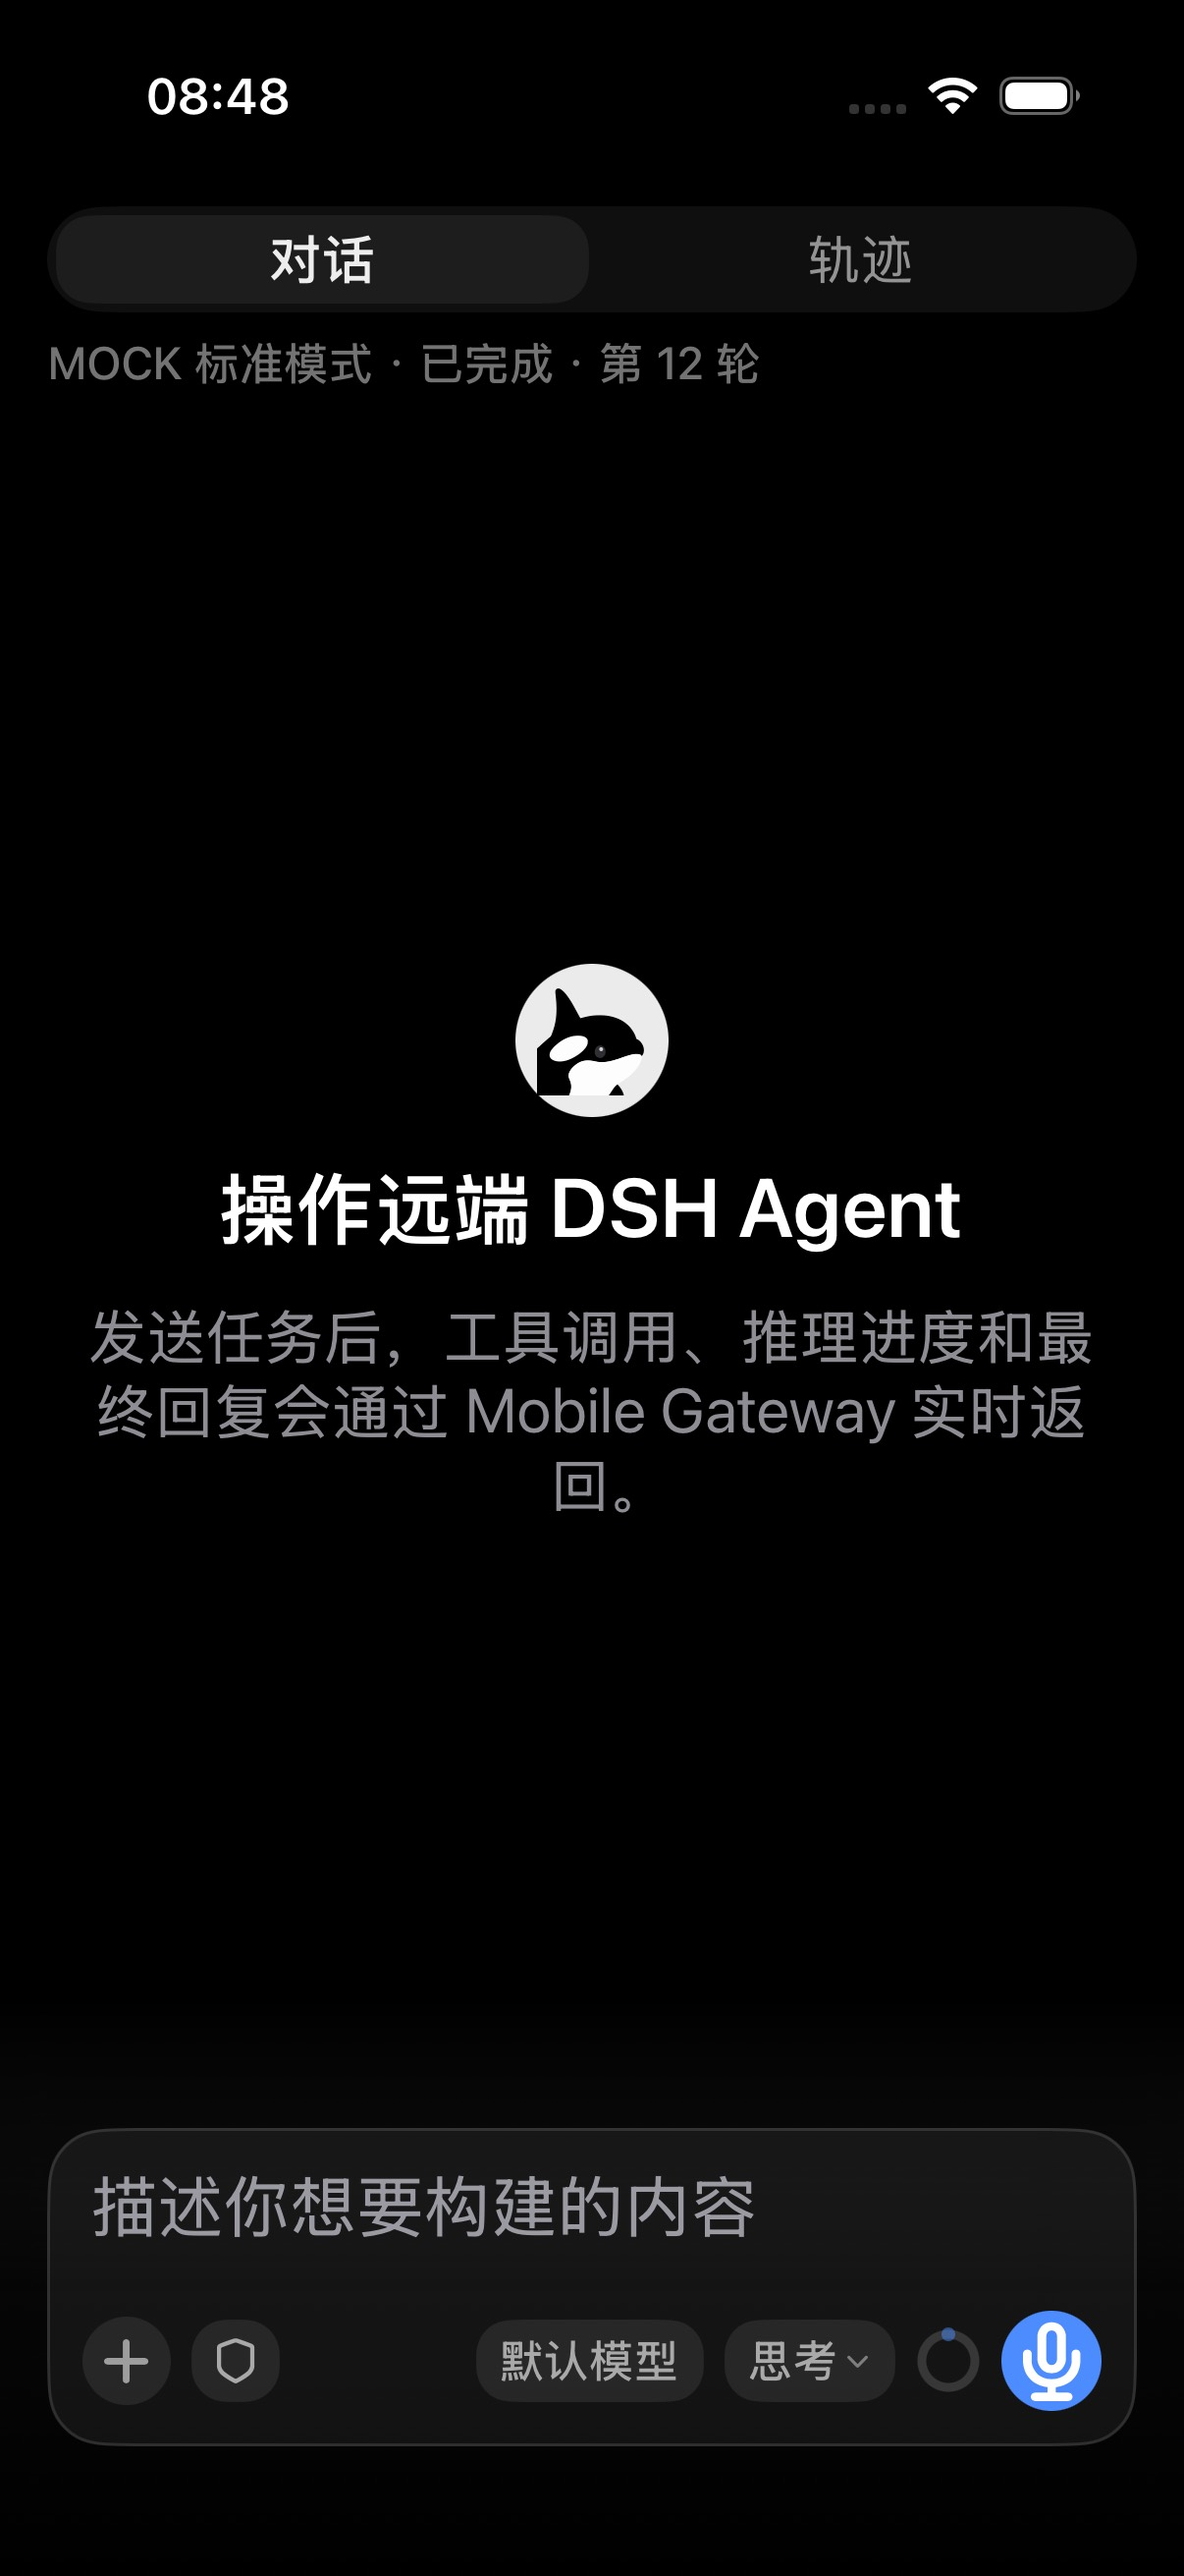
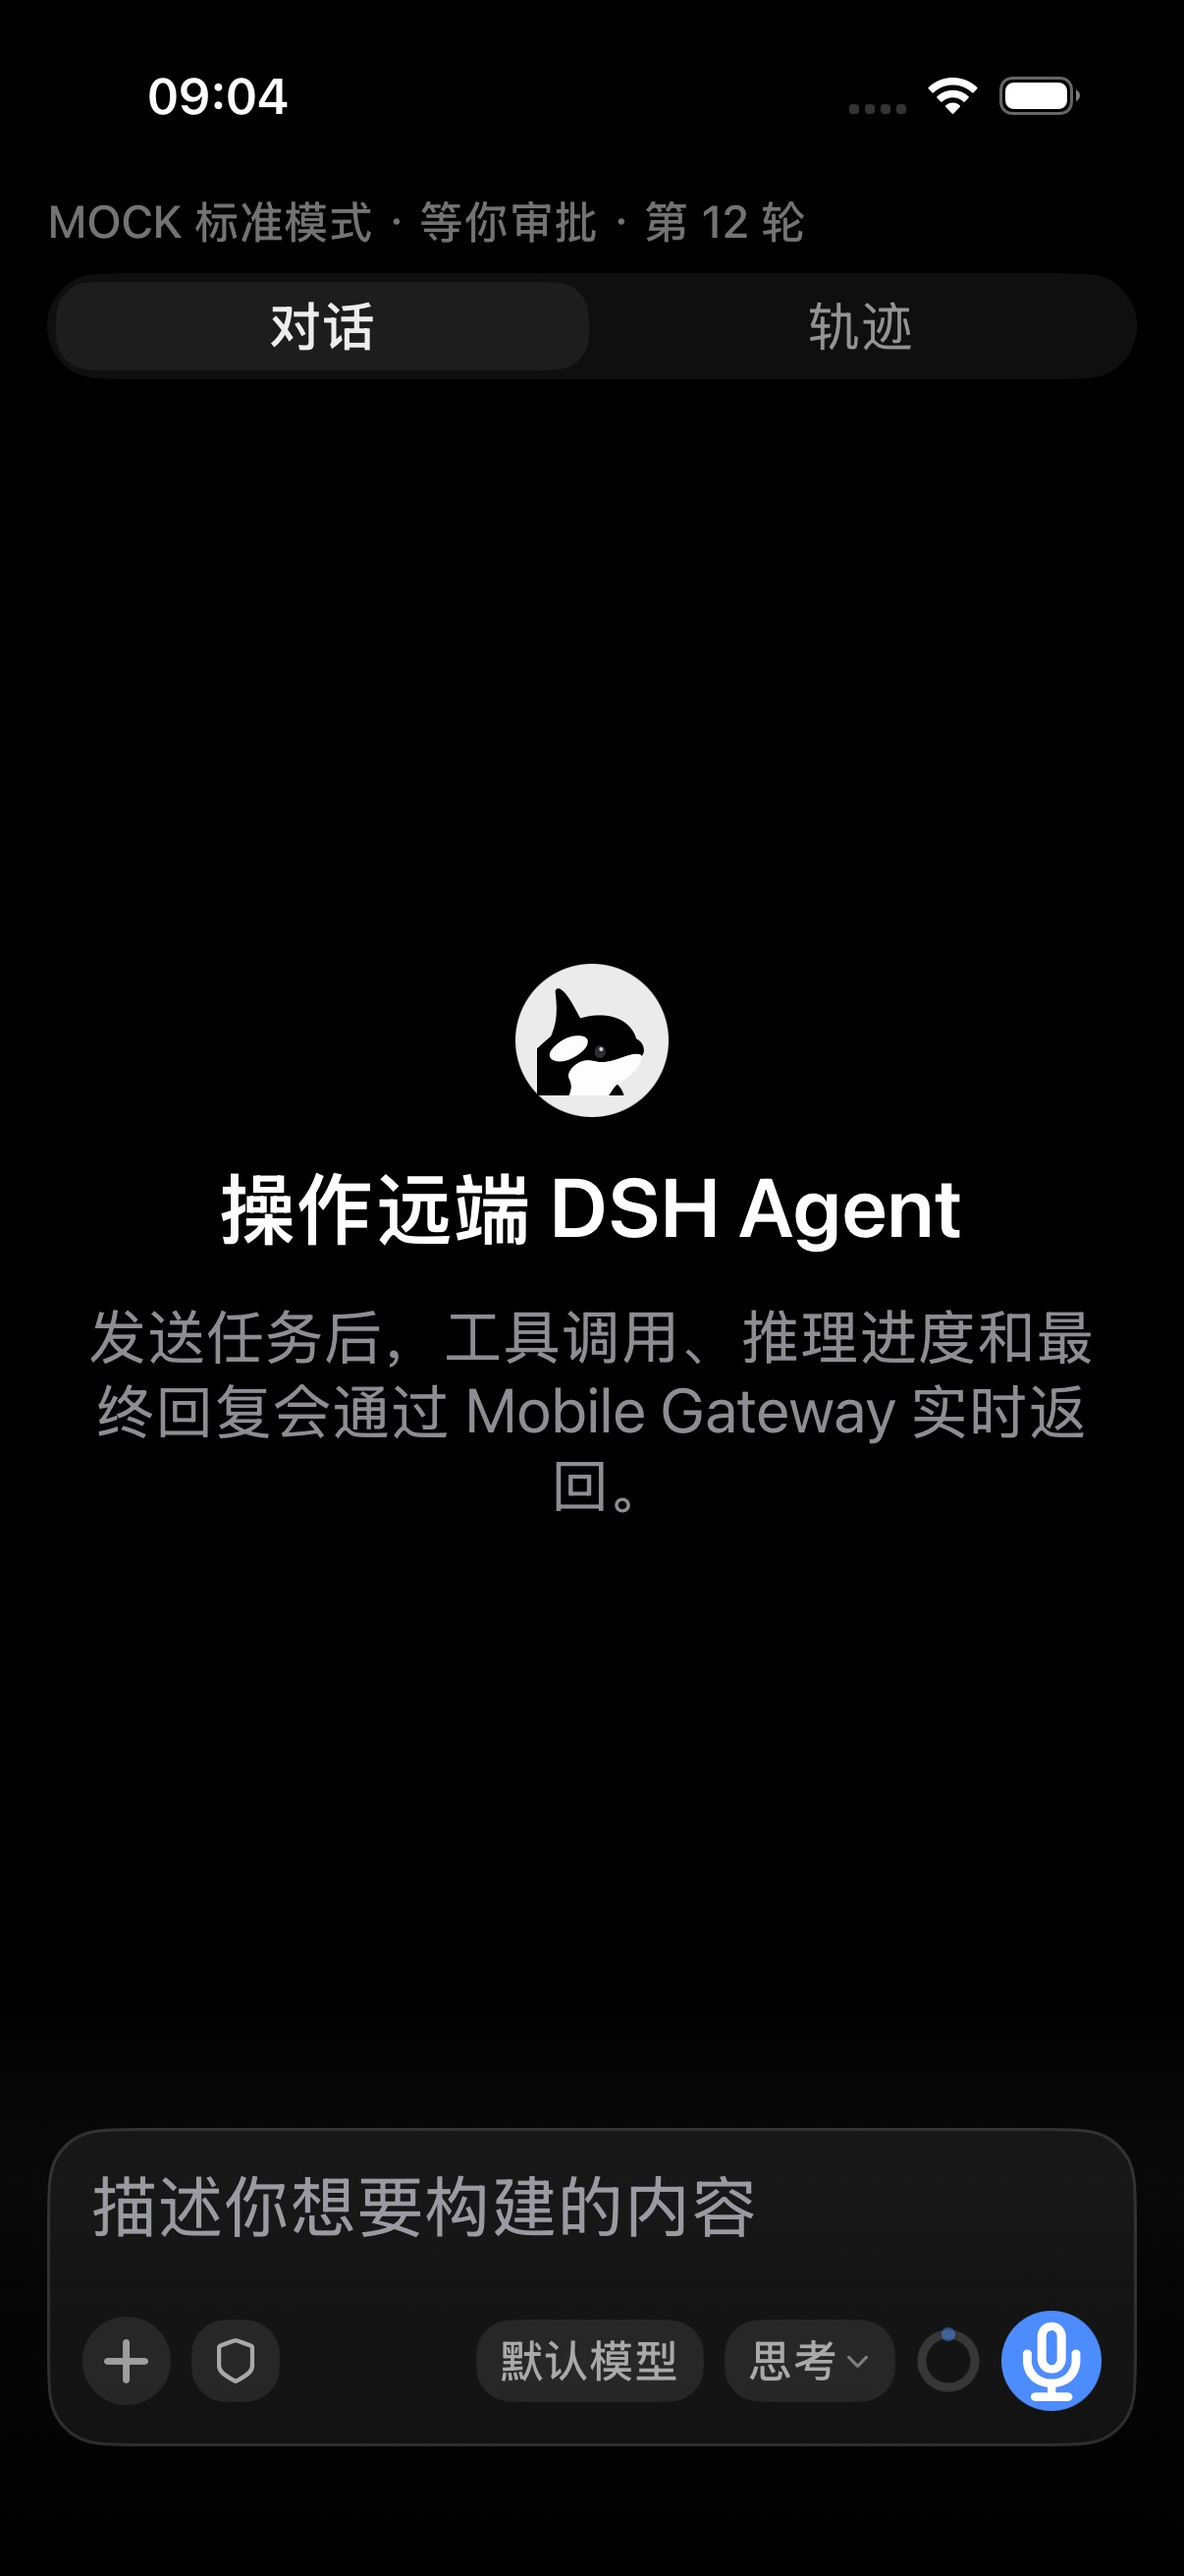
fix(ui): 段3 页头收口 —— 副行移到分段上方 + 状态词扩三态（等你审批/等你回答/运行中/已完成）
本笔解决什么（Chief 退回项）：
1) 位置：副行从「分段下方」移到**导航标题下方、分段上方**，与设计稿一致
   （顺序：副行 → DSHSegmented）
2) 状态词扩三态，按场景取，优先级从高到低：
   - `store.selectedPendingApprovalRequest != nil` → 「等你审批」
   - `store.selectedPendingQuestionRequestMerged != nil` → 「等你回答」
   - `store.selectedSession.isRunning` → 「运行中 / 已完成」
   模式与轮次仍取既有 `sessionAgentPreset` / `stats.turns`；无任何一段时整行不渲染

未动：`PersistentSessionPager` 手势逻辑、`activeView` 语义、`DSHSegmented` 组件本身、
`RootView.ConversationNavigationShell`（本轮 `git diff` 仍为 0，导航容器不碰）。

自验证据：
- 闸门 EXIT=0（四路 0 错误 / 1.7.11 (52) / Bundle ID 前缀一致 / 团队流 3 入口 /
  收录 80/80 / 测试目标 14 文件 0 错误）
- 截图重出：03-header-dark.jpg / 03-header-light.jpg —— 副行在分段**上方**，
  文本为临时 mock「MOCK 标准模式 · 等你审批 · 第 12 轮」（验证三态里的审批态）
- 临时 mock 已删，grep 0 残留；RootView 已还原（diff 0）

坐标：分支 feat/ui-redesign-home；tag ui-baseline-conversation(705a223) 未动

diff --git a/DeepSeekHarnessMobile/Views/ConversationView.swift b/DeepSeekHarnessMobile/Views/ConversationView.swift
@@ -418,12 +418,7 @@ struct ConversationView: View {
                     Text("团队 › \(store.selectedSession?.title ?? "成员")" + (store.selectedMemberCanSend ? "" : " · 只读"))
                         .appFont(.caption).foregroundStyle(.secondary).lineLimit(1).padding(.bottom, 4)
                 }
-                // 03 页头：设计系统胶囊分段（原为系统 Picker(.segmented)）
-                DSHSegmented(items: ["对话", "轨迹"], selection: $activeView)
-                    .padding(.horizontal, DSHSpacing.lg)
-                    .readableContentWidth(440)
-                    .padding(.vertical, DSHSpacing.sm)
-                // 03 页头副行：模式 · 状态 · 第 N 轮（11pt，不上标题行）
+                // 03 页头副行：紧贴导航标题下方、分段上方（模式 · 状态 · 第 N 轮）
                 if let conversationSubtitle {
                     Text(conversationSubtitle)
                         .appFont(DSHType.meta)
@@ -432,8 +427,13 @@ struct ConversationView: View {
                         .frame(maxWidth: .infinity, alignment: .leading)
                         .padding(.horizontal, DSHSpacing.lg)
                         .readableContentWidth(440)
-                        .padding(.bottom, DSHSpacing.xs)
+                        .padding(.top, DSHSpacing.xs)
                 }
+                // 03 页头：设计系统胶囊分段（原为系统 Picker(.segmented)）
+                DSHSegmented(items: ["对话", "轨迹"], selection: $activeView)
+                    .padding(.horizontal, DSHSpacing.lg)
+                    .readableContentWidth(440)
+                    .padding(.vertical, DSHSpacing.sm)
 
                 PersistentSessionPager(selection: $activeView) {
                     chat
@@ -544,7 +544,12 @@ struct ConversationView: View {
                 parts.append(name)
             }
         }
-        if let session = store.selectedSession {
+        // 状态按场景取：待审批 / 待回答优先于运行中/已完成
+        if store.selectedPendingApprovalRequest != nil {
+            parts.append(String(localized: "等你审批"))
+        } else if store.selectedPendingQuestionRequestMerged != nil {
+            parts.append(String(localized: "等你回答"))
+        } else if let session = store.selectedSession {
             parts.append(session.isRunning ? String(localized: "运行中") : String(localized: "已完成"))
         }
         if let turns = store.selectedSessionStatsSnapshot?.stats?.turns, turns > 0 {
